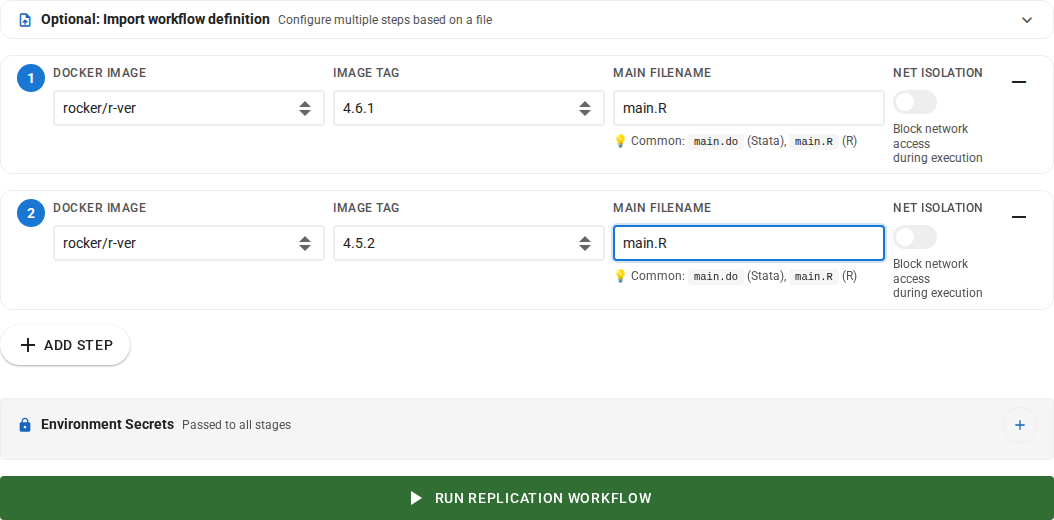
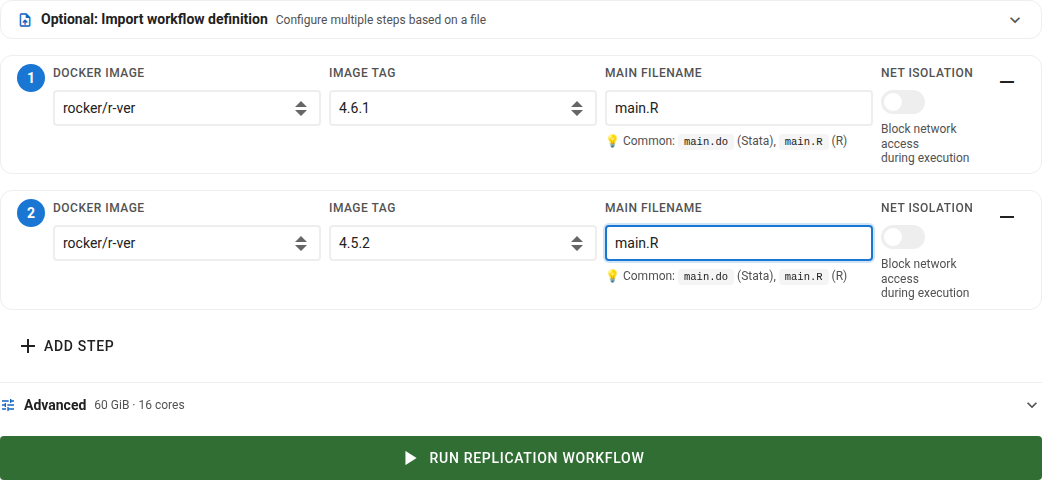
Fold the advanced settings, and say what the one button now does
Follows aea-sivacor#43, which changed three things on the submission page.

The machine size, extra scratch disk and environment secrets now live in an
Advanced panel that is folded by default, so the prose that placed them "under
the steps" and "under the machine size" no longer tells a reader where to look.
Adds an Advanced settings section that says where they are and that the summary
line reports them while shut, and points the two existing sections at it.

The run button is now grey until an upload has finished, and grey again if the
uploaded file is deleted, so step1 and the submitting section say so.

The important correction is in step4: "Starting a new run does not delete the
previous one" is now false. The plain "Run New Job" button is gone, so the only
route back to the form is `Delete & Run New Job` -- starting the next run and
destroying the last one are one click. Anyone who read the old sentence and
planned to download later would lose their results, so it is stated as the
warning it now is, in step4 and in the FAQ's deletion answer.

Screenshots regenerated for the shots the change alters: the two button rows
that lost a button, the form sections that gained the Advanced row, and two new
ones for the opened panel and the disabled button. The panel shot is taken
against the production four-rung ladder as a non-admin, because the deploy-dev
default is a single rung and an admin bypasses the "by request" gate -- both
would have made the picture quietly wrong.

diff --git a/docs/step2-choosing-image.md b/docs/step2-choosing-image.md
@@ -24,12 +24,34 @@ Please be sure to use the proper case (`main.do` is not the same as `Main.do`) a
 
 :::
 
+(advanced-settings)=
+## Advanced settings
+
+Below the steps is an **Advanced** panel, folded by default. Most submissions never need to open
+it: everything inside has a sensible default, and the summary line shows what those defaults
+currently come to — so you can read the settings without unfolding anything.
+
+![The Advanced panel, opened](images/sivacor-advanced-panel.png)
+
+It holds three settings, each applying to the whole submission rather than to one step:
+
+- **Worker Size** — the machine your submission runs on ([below](#worker-size));
+- **Extra Scratch Disk** — a temporary disk on top of the machine's own
+  ([below](#scratch-disk));
+- **Environment Secrets** — values passed to your code as environment variables. They are sent
+  with the submission and never stored in your browser, and they never appear in a downloaded
+  `Workflow definition`.
+
+The panel opens itself in two cases, because leaving it shut would hide something you need to
+see: when a scratch-disk request cannot be granted, and when you import a workflow file that
+sets any of these.
+
 (worker-size)=
 ## Choose the machine size
 
-Under the steps, **Worker Size** sets the machine your submission runs on. It applies to the whole
-submission — every step runs on the same machine, one submission at a time — so there is one setting,
-not one per step.
+Under **Advanced**, **Worker Size** sets the machine your submission runs on. It applies to the
+whole submission — every step runs on the same machine, one submission at a time — so there is one
+setting, not one per step.
 
 | Size | Cores | Available to your analysis | Disk | Relative cost |
 |---|---|---|---|---|
@@ -71,10 +93,10 @@ tells you which sizes you can use.
 (scratch-disk)=
 ## Extra scratch disk
 
-Under the machine size, **Extra Scratch Disk** asks for a temporary disk *in addition to* the
-machine's own 60 GB. It is for the small number of packages whose data, outputs and software image
-cannot fit that 60 GB together — the case where a run fails saying it ran out of disk space, and
-where a larger machine size would not have helped.
+In the same **Advanced** panel, under the machine size, **Extra Scratch Disk** asks for a temporary
+disk *in addition to* the machine's own 60 GB. It is for the small number of packages whose data,
+outputs and software image cannot fit that 60 GB together — the case where a run fails saying it ran
+out of disk space, and where a larger machine size would not have helped.
 
 **It is off unless you ask, and granted per account.** The field is empty on every new submission —
 it is deliberately not remembered from your last one — and for most accounts it is visible but not
@@ -182,3 +204,8 @@ remove any `env_secrets` from it first.
 Then click on the `Run Replication Workflow` button.
 
 ![Submit job](images/sivacor-image-run-chained.png)
+
+The button is grey until an upload has finished, and says so underneath — while a file is still
+going up, and again if you delete the uploaded file. Everything else on the form is checked when
+you click: if a step is missing an image, a tag or a main file, the page tells you which one
+rather than leaving the button dead.

diff --git a/docs/step4-download.md b/docs/step4-download.md
@@ -20,11 +20,12 @@ page, instead of filling the form in by hand (see
 SIVACOR does not retain your results for long: a submission is **deleted 14 days after it was
 submitted**. If you want to keep any results, you **must** download them before then.
 
-Starting a new run does not delete the previous one, but the page only ever shows your most
-recent submission — so once you start another run, the earlier results are no longer
-reachable from the dashboard, and will be deleted when their 14 days are up.
+**Starting a new run deletes the previous one.** The only button that returns you to the
+submission form is `Delete & Run New Job` — it asks you to confirm, and then removes the
+submission and everything in it. Download what you want to keep *before* you click it: once
+the submission is gone there is no way back to it, not even by its link.
 
-You can choose to not wait for the automated deletion jobs, and explicitly delete your results by clicking the `Delete & Run New Job` button on the job page.
+This is also how you delete results without waiting for the 14 days to run out.
 
 ::::
 

diff --git a/docs/faq.md b/docs/faq.md
@@ -353,6 +353,11 @@ SIVACOR only temporarily retains any files that you upload. You can delete files
 
 ![Deleting files](images/sivacor-completed-delete.png)
 
+This is also the only button that returns you to the submission form, so it is the same click
+either way: starting your next run and deleting the previous one are one action. It asks you to
+confirm first — **download anything you want to keep before confirming**, because the
+submission and its link are gone afterwards.
+
 ## The system appears to be down.
 
 SIVACOR runs on [Jetstream 2](https://jetstream-cloud.org/). If Jetstream 2 is down for maintenance, SIVACOR will be down as well. You can check the [Jetstream 2 status page](https://jetstream.status.io/) for any ongoing maintenance or issues.

diff --git a/docs/step1-upload.md b/docs/step1-upload.md
@@ -38,3 +38,9 @@ If you picked the wrong file, click `Delete Uploaded File` and upload the correc
 upload area reappears once the file has been removed.
 
 :::
+
+Until an upload has finished, `Run Replication Workflow` at the bottom of the page stays grey
+and says why. It goes grey again if you delete the uploaded file, so a run can never be started
+against a file that is half-uploaded or no longer there.
+
+![The run button before anything is uploaded](images/sivacor-run-disabled.png)
